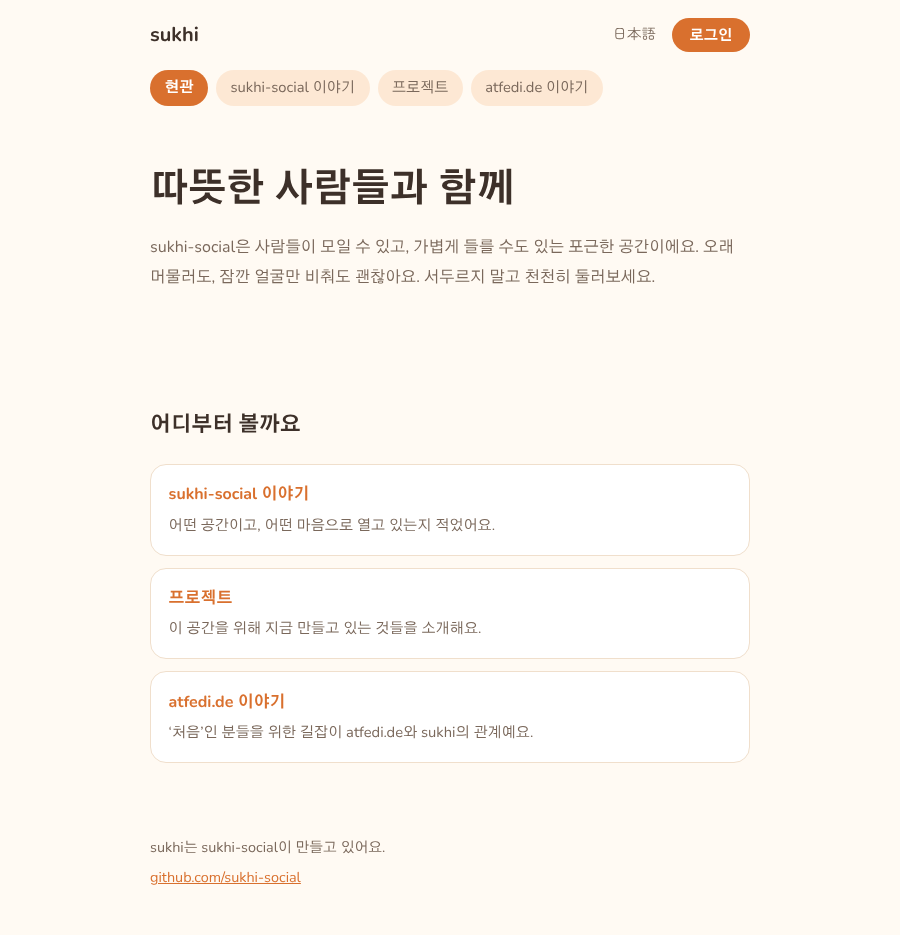
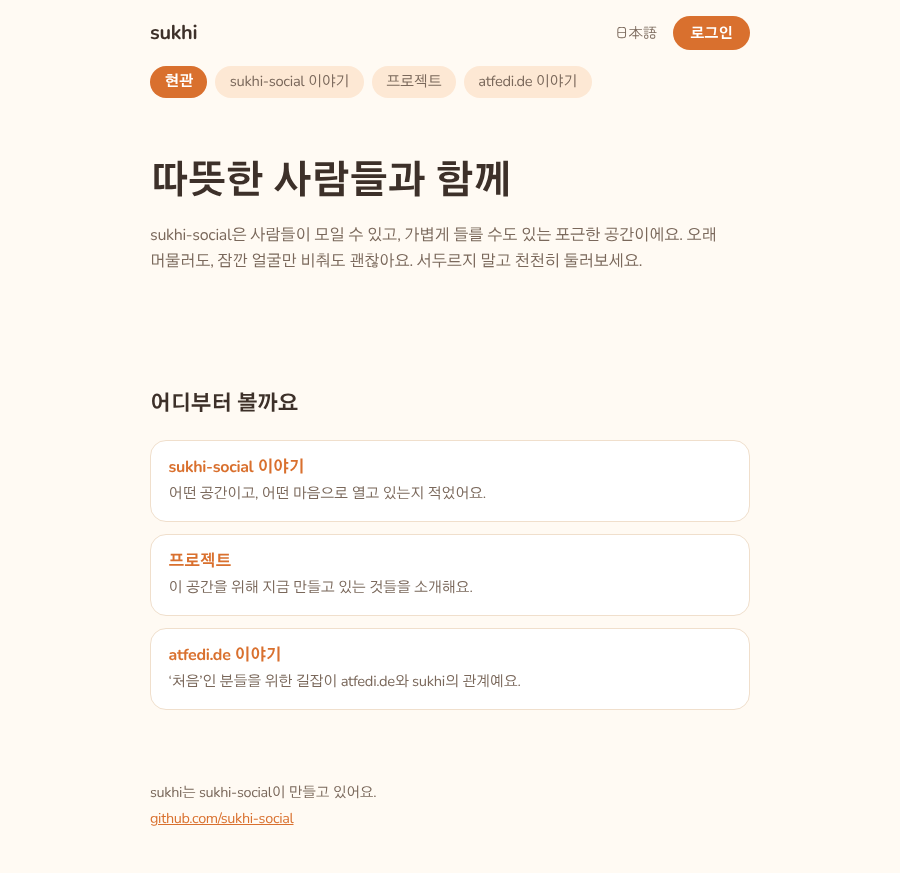
Korean: letter-spacing -0.02em, line-height 1.6 for Gothic A1
Claude-Session: https://claude.ai/code/session_01EUxHZau6UP3xLAsGqKBsmf

diff --git a/src/styles/about.css b/src/styles/about.css
@@ -88,3 +88,6 @@ main { min-height: 50vh; }
 /* ── 右上: 言語とログイン ── */
 .bar .right { display: flex; align-items: center; gap: 1rem; }
 .button.small { padding: 0.3rem 1.1rem; font-size: 0.9rem; line-height: 1.7; }
+
+/* 韓国語(Gothic A1)は、字間をほんの少しつめて、行間を 1.6 に。 */
+html:lang(ko) body { letter-spacing: -0.02em; line-height: 1.6; }
